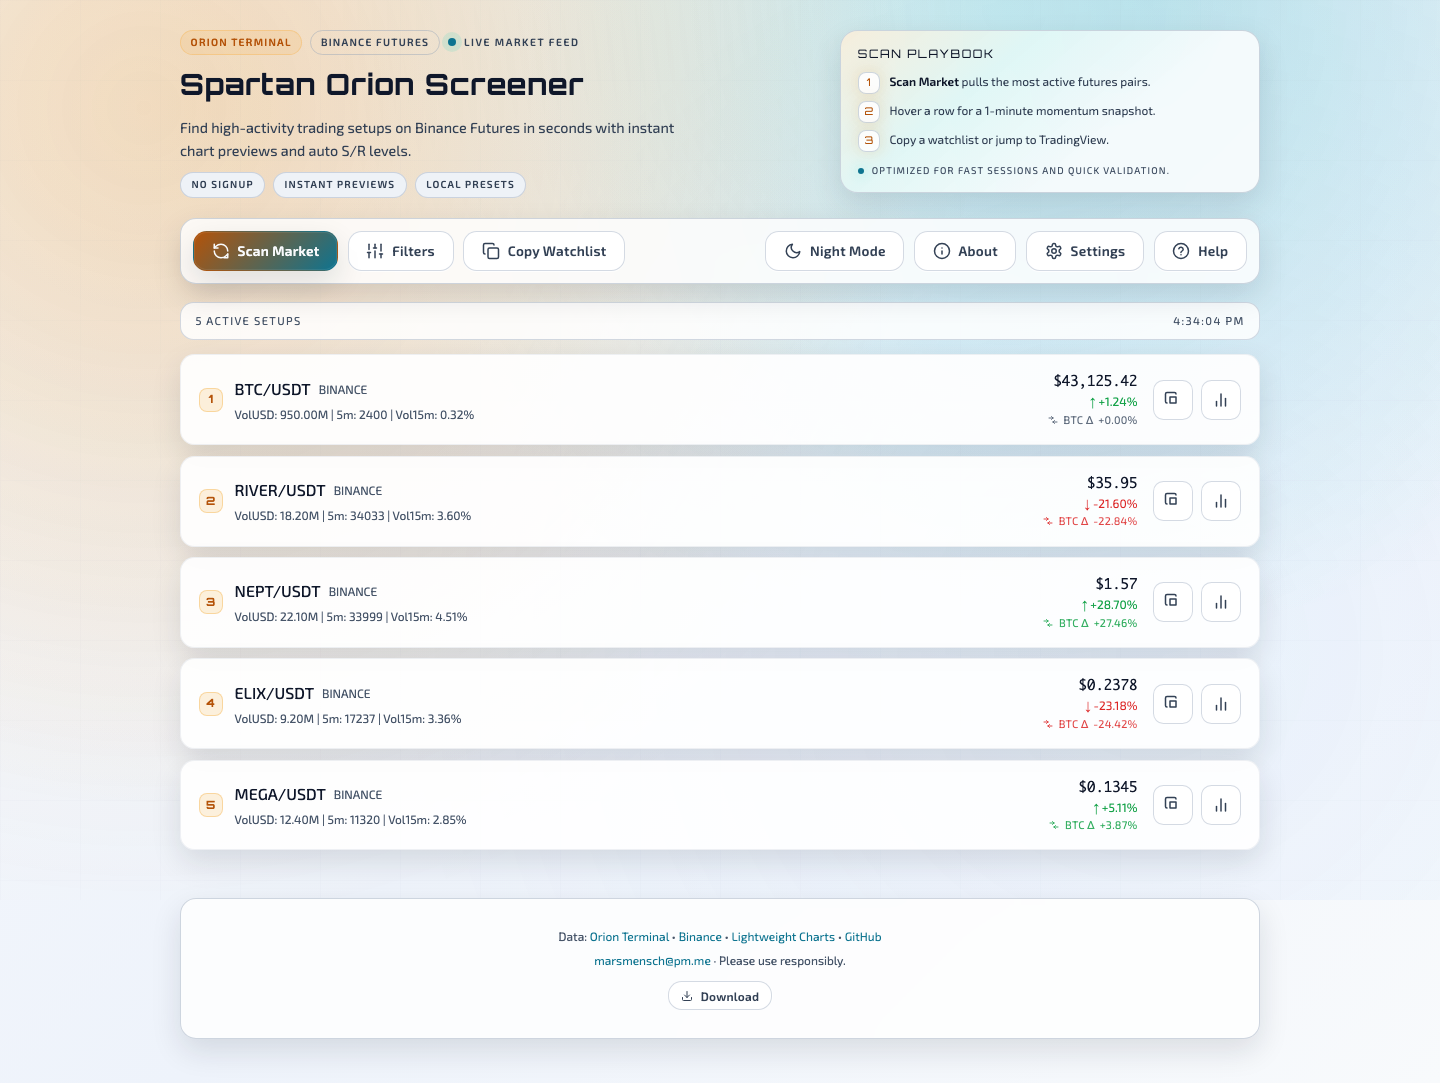
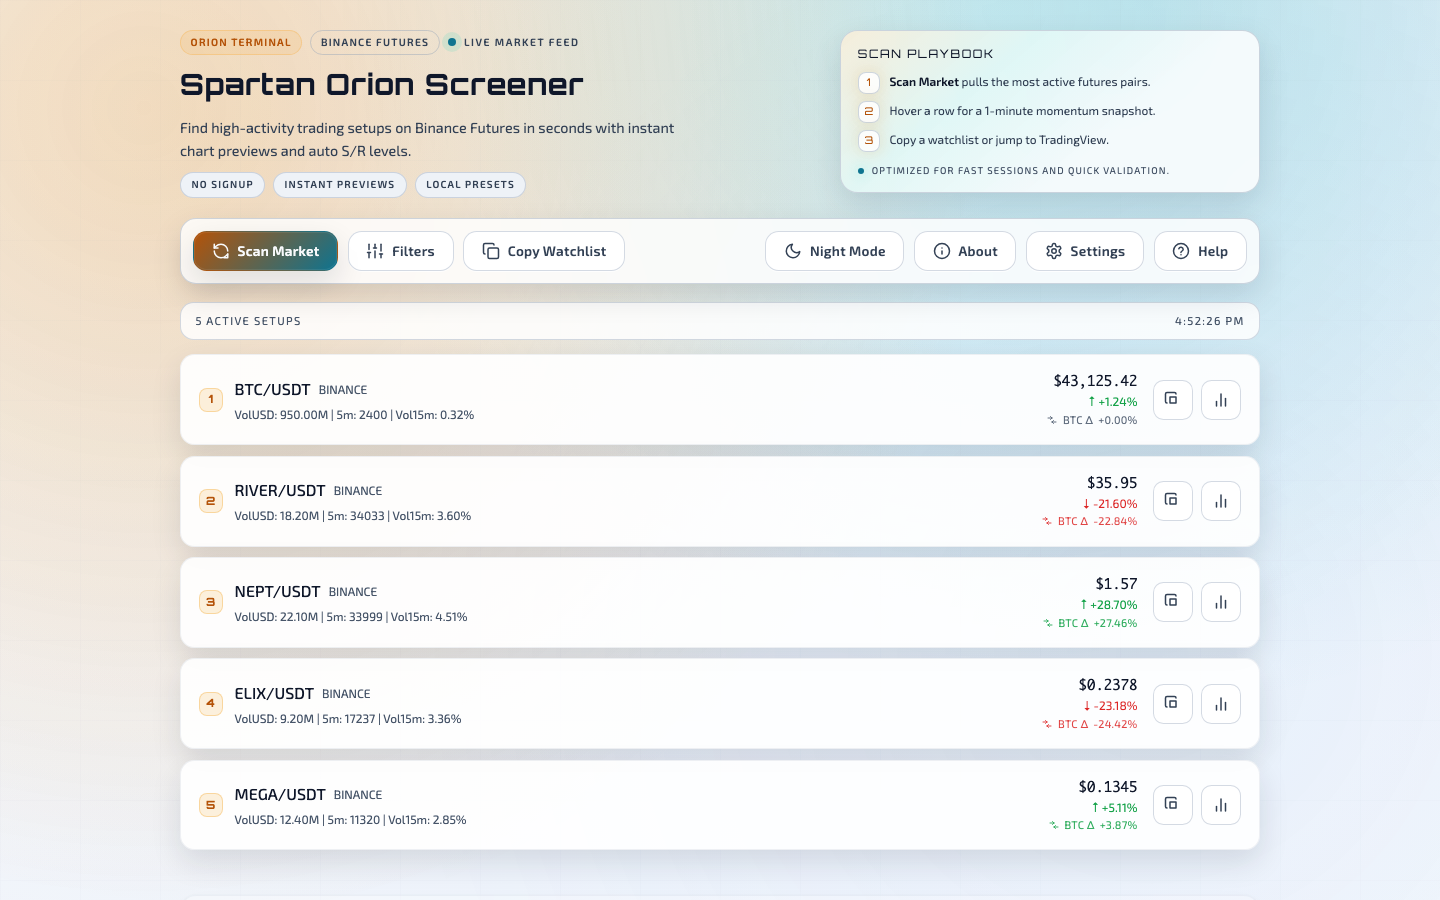
Improve SEO copy and documentation

Changed region(s): [[0.125, 0.0311, 0.875, 0.9644]]

diff --git a/index.html b/index.html
@@ -4,9 +4,12 @@
   <meta charset="UTF-8">
   <meta name="viewport" content="width=device-width, initial-scale=1.0">
   <title>Spartan Orion Screener — Free Binance Futures Market Scanner</title>
-  <meta name="description" content="Free market scanner for Binance Futures. Find high-volume, high-volatility trading setups with instant chart previews and auto S/R levels. No signup required.">
+  <meta name="description" content="Binance Futures screener for high-activity setups with instant chart previews, auto S/R levels, and relative performance vs BTC. Free, no signup required.">
   <meta name="keywords" content="binance futures, crypto screener, market scanner, trading tools, cryptocurrency, technical analysis, support resistance, volatility scanner">
   <meta name="author" content="marsmensch">
+  <meta name="robots" content="index, follow">
+  <meta name="application-name" content="Spartan Orion Screener">
+  <meta name="apple-mobile-web-app-title" content="Spartan Orion Screener">
   <link rel="canonical" href="https://mars-llm.github.io/orionterminal-spartan/">
   <link rel="icon" type="image/png" sizes="32x32" href="favicon-32.png">
   <link rel="icon" type="image/png" sizes="16x16" href="favicon-16.png">
@@ -14,16 +17,36 @@
   <!-- Open Graph / Facebook -->
   <meta property="og:type" content="website">
   <meta property="og:url" content="https://mars-llm.github.io/orionterminal-spartan/">
+  <meta property="og:site_name" content="Spartan Orion Screener">
+  <meta property="og:locale" content="en_US">
   <meta property="og:title" content="Spartan Orion Screener — Free Binance Futures Scanner">
-  <meta property="og:description" content="Scan Binance Futures for high-activity setups. Instant chart previews with S/R levels. No signup, runs in browser.">
-  <meta property="og:image" content="https://mars-llm.github.io/orionterminal-spartan/screenshot.png">
+  <meta property="og:description" content="Scan Binance Futures for high-activity setups with instant previews, auto S/R, and BTC-relative performance. No signup, runs in browser.">
+  <meta property="og:image" content="https://mars-llm.github.io/orionterminal-spartan/social-card.png">
+  <meta property="og:image:alt" content="Spartan Orion Screener dashboard showing market scans and chart previews">
+  <meta property="og:image:width" content="1200">
+  <meta property="og:image:height" content="750">
 
   <!-- Twitter -->
   <meta name="twitter:card" content="summary_large_image">
   <meta name="twitter:url" content="https://mars-llm.github.io/orionterminal-spartan/">
   <meta name="twitter:title" content="Spartan Orion Screener — Free Binance Futures Scanner">
-  <meta name="twitter:description" content="Scan Binance Futures for high-activity setups. Instant chart previews with S/R levels. No signup, runs in browser.">
-  <meta name="twitter:image" content="https://mars-llm.github.io/orionterminal-spartan/screenshot.png">
+  <meta name="twitter:description" content="Scan Binance Futures for high-activity setups with instant previews, auto S/R, and BTC-relative performance. No signup, runs in browser.">
+  <meta name="twitter:image" content="https://mars-llm.github.io/orionterminal-spartan/social-card.png">
+  <meta name="twitter:image:alt" content="Spartan Orion Screener dashboard showing market scans and chart previews">
+
+  <script type="application/ld+json">
+    {
+      "@context": "https://schema.org",
+      "@type": "SoftwareApplication",
+      "name": "Spartan Orion Screener",
+      "applicationCategory": "FinanceApplication",
+      "operatingSystem": "Web",
+      "url": "https://mars-llm.github.io/orionterminal-spartan/",
+      "description": "Binance Futures screener for high-activity setups with instant chart previews, auto S/R levels, and BTC-relative performance.",
+      "offers": { "@type": "Offer", "price": "0", "priceCurrency": "USD" },
+      "creator": { "@type": "Person", "name": "marsmensch" }
+    }
+  </script>
 
   <!-- Lightweight Charts for custom charting -->
   <script src="https://unpkg.com/lightweight-charts@4.1.0/dist/lightweight-charts.standalone.production.js"
@@ -1776,6 +1799,63 @@
       letter-spacing: 0.03em;
     }
 
+    .seo-section {
+      margin-top: 2rem;
+      padding: 1.5rem;
+      border: 1px solid var(--glass-border);
+      border-radius: 1rem;
+      background: var(--glass-bg);
+      box-shadow: var(--shadow-soft);
+      backdrop-filter: blur(16px);
+      animation: riseIn 0.7s ease both;
+      animation-delay: 0.06s;
+    }
+
+    .seo-section h2 {
+      font-family: var(--font-display);
+      font-size: 0.85rem;
+      letter-spacing: 0.12em;
+      text-transform: uppercase;
+      margin-bottom: 0.9rem;
+      color: var(--text-primary);
+    }
+
+    .seo-grid {
+      display: grid;
+      grid-template-columns: repeat(auto-fit, minmax(220px, 1fr));
+      gap: 1rem;
+    }
+
+    .seo-card {
+      background: var(--surface-card);
+      border: 1px solid var(--border);
+      border-radius: 0.85rem;
+      padding: 0.95rem;
+    }
+
+    .seo-card h3 {
+      font-family: var(--font-display);
+      font-size: 0.7rem;
+      letter-spacing: 0.12em;
+      text-transform: uppercase;
+      margin-bottom: 0.35rem;
+      color: var(--text-primary);
+    }
+
+    .seo-card p {
+      font-size: 0.8rem;
+      color: var(--text-secondary);
+      line-height: 1.5;
+    }
+
+    .seo-card ul {
+      margin-top: 0.4rem;
+      padding-left: 1rem;
+      color: var(--text-muted);
+      font-size: 0.72rem;
+      line-height: 1.4;
+    }
+
     footer {
       text-align: center;
       margin-top: 3rem;
@@ -2289,10 +2369,11 @@
             </div>
             <div>
               <h4>Export & Share</h4>
-              <p>Copy a watchlist or take the screener offline with one click.</p>
+              <p>Copy a watchlist or download the HTML for local use.</p>
               <ul>
                 <li>Copy Watchlist formats for TradingView.</li>
                 <li>Download HTML or install the PWA.</li>
+                <li>Live data still needs an internet connection.</li>
               </ul>
             </div>
           </div>
@@ -2350,6 +2431,36 @@
       </div>
       <div class="results-list" id="resultsList"></div>
     </div>
+
+    <section class="seo-section" aria-label="About Spartan Orion Screener">
+      <h2>Built for Fast Futures Scans</h2>
+      <div class="seo-grid">
+        <div class="seo-card">
+          <h3>High-Activity Scanner</h3>
+          <p>Spartan Orion Screener surfaces Binance Futures pairs with high volume, volatility, and trade activity so you can spot momentum quickly.</p>
+          <ul>
+            <li>Instant previews + auto S/R levels.</li>
+            <li>Preset filters for different styles.</li>
+          </ul>
+        </div>
+        <div class="seo-card">
+          <h3>BTC-Relative Signal</h3>
+          <p>Each asset includes a BTC Δ metric: the asset’s 24h % change minus BTC’s 24h % change.</p>
+          <ul>
+            <li>Positive = outperformed BTC.</li>
+            <li>Negative = underperformed BTC.</li>
+          </ul>
+        </div>
+        <div class="seo-card">
+          <h3>Runs in Browser</h3>
+          <p>Use it on GitHub Pages or download the HTML for local use. Live data requires an internet connection.</p>
+          <ul>
+            <li>No signup or API keys.</li>
+            <li>Optional proxy fallback for CORS.</li>
+          </ul>
+        </div>
+      </div>
+    </section>
 
     <footer>
       <p>
@@ -2857,10 +2968,11 @@
       },
     ];
 
-    let currentFilters = { ...DEFAULT_FILTERS };
+    let currentFilters = JSON.parse(JSON.stringify(DEFAULT_FILTERS));
     let activeProfileId = 'default';
     let picks = [];
     let isLoading = false;
+    // Stores BTC 24h % change for BTC-relative comparisons (BTC Δ).
     let latestBtcChange24h = null;
     let customProfiles = [];
     const MAX_CUSTOM_PROFILES = 3;

diff --git a/service-worker.js b/service-worker.js
@@ -3,6 +3,8 @@ const ASSETS = [
   './',
   './index.html',
   './manifest.webmanifest',
+  './favicon-16.png',
+  './favicon-32.png',
   './icon-192.png',
   './icon-512.png'
 ];

diff --git a/README.md b/README.md
@@ -21,7 +21,9 @@ A single-file market scanner for Binance Futures. Finds high-activity setups and
 
 - **One-click scan** — no signup, no API keys, no install
 - **Instant chart previews** — hover any row to see a 1m chart
-- **Auto S/R levels** — previous 15m and 1h candle high/low
+- **Expanded chart view** — VolUSD histogram, MA, and S/R overlays
+- **BTC Δ signal** — asset 24h % minus BTC 24h %
+- **Auto S/R levels** — 15m, 1h, 4h, and 1d candle high/low
 - **Filter presets** — Default, High Volume Majors, Low Cap Gems, Scalping
 - **PWA support** — install as an app on desktop or mobile
 - **Downloadable HTML** — run locally, with live data when connected
@@ -32,7 +34,7 @@ A single-file market scanner for Binance Futures. Finds high-activity setups and
 2. Click **Scan Market**
 3. Hover results to preview charts
 
-No server required.
+No server required. Live data still needs an internet connection.
 
 ## Filter Presets
 
